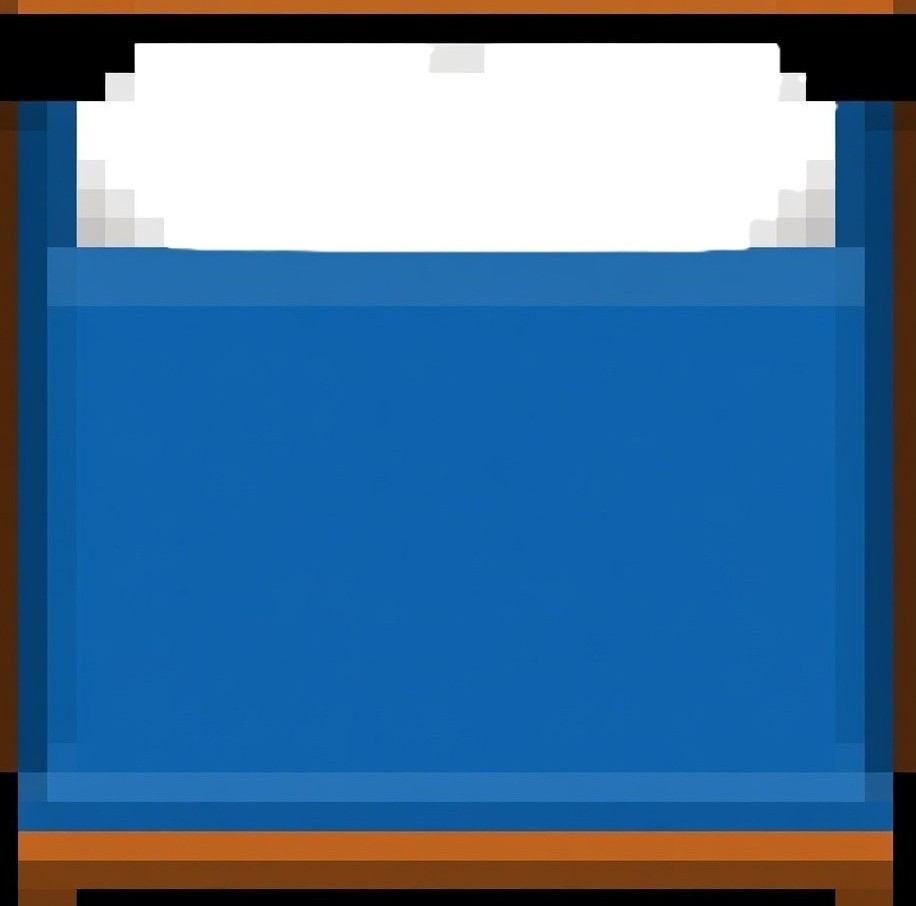
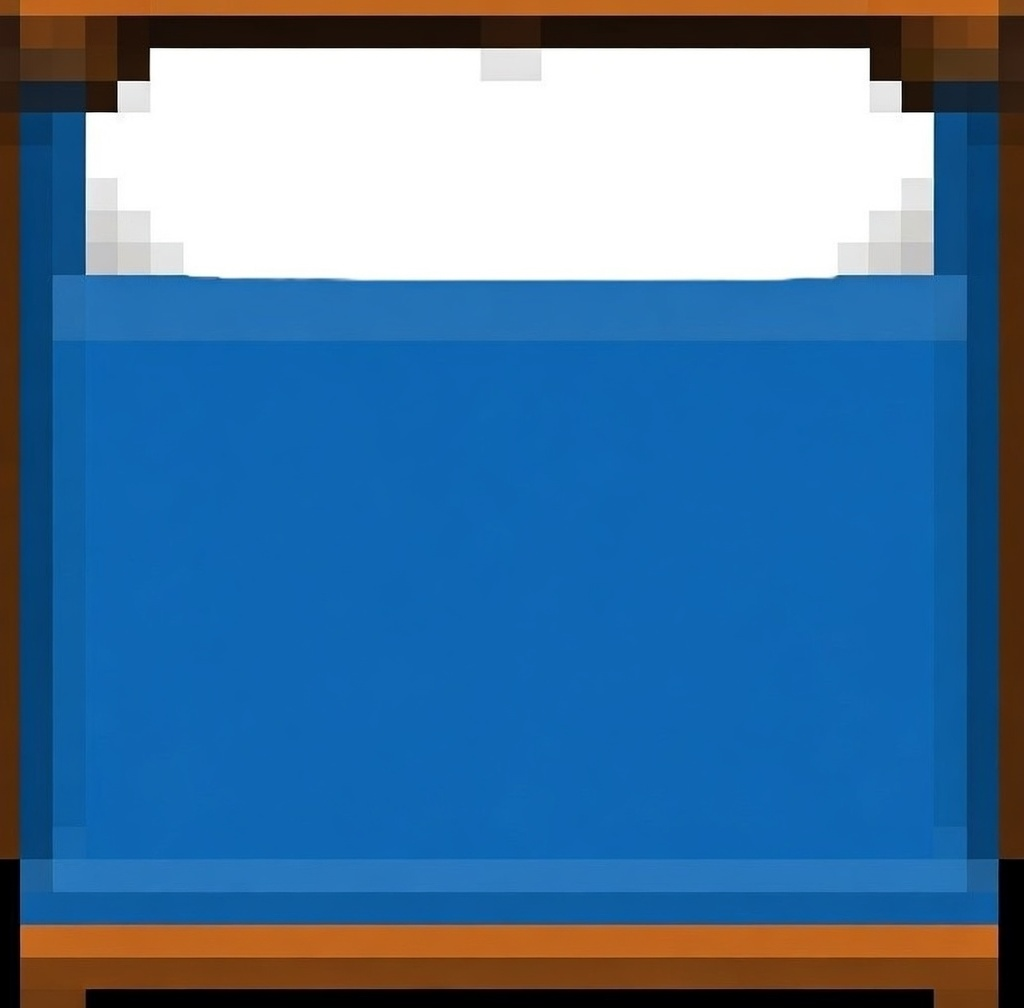
updatenha

Changed region(s): [[0.0, 0.0, 1.0, 0.1236]]

diff --git a/core/src/main/java/farm/com/screens/HomeScreen.java b/core/src/main/java/farm/com/screens/HomeScreen.java
@@ -9,20 +9,37 @@ import com.badlogic.gdx.math.Vector2;
 import com.badlogic.gdx.scenes.scene2d.Stage;
 import com.badlogic.gdx.utils.ScreenUtils;
 import farm.com.inhome.Bed;
+import farm.com.inhome.Chair;
+import farm.com.inhome.Heater;
+import farm.com.inhome.TV;
 
 public class HomeScreen implements Screen {
     Master game;
     Stage stage;
     Texture floor;
+    Texture picture;
+    Texture sofa;
+    Texture table;
     OrthographicCamera camera;
     Bed bed;
+    TV tv;
+    Chair chair;
+    farm.com.Character main;
+    Heater heater;
     public HomeScreen(Master game) {
         this.game = game;
         stage = new Stage();
         camera = new OrthographicCamera();
         camera.setToOrtho(false, Gdx.graphics.getWidth(),Gdx.graphics.getHeight());
         floor = new Texture("floor.jpg");
-        bed = new Bed(1159,308,stage);
+        picture = new Texture("pic.png");
+        sofa = new Texture("sofa.png");
+        table = new Texture("table.png");
+        bed = new Bed(1055,290,stage);
+        tv = new TV(797,650,stage);
+        heater = new Heater(1100,650,stage);
+        chair = new Chair(516,630,stage);
+        main = new farm.com.Character(1508,945,stage,game);
     }
     @Override
     public void show() {
@@ -35,7 +52,10 @@ public class HomeScreen implements Screen {
         camera.update();
         game.batch.setProjectionMatrix(camera.combined);
         game.batch.begin();
-        game.batch.draw(floor, 0,0, Gdx.graphics.getWidth(), Gdx.graphics.getHeight());
+        game.batch.draw(floor, 446,269, Gdx.graphics.getWidth()/2, Gdx.graphics.getHeight()/1.5f);
+        game.batch.draw(picture,984,779,100, 100);
+        game.batch.draw(sofa,737,250,Gdx.graphics.getWidth()/6.85f, Gdx.graphics.getHeight()/6);
+        game.batch.draw(table,576,490,Gdx.graphics.getWidth()/7, Gdx.graphics.getHeight()/2.5f);
         game.batch.end();
         stage.act(Gdx.graphics.getDeltaTime());
         stage.draw();

diff --git a/core/src/main/java/farm/com/inhome/Heater.java b/core/src/main/java/farm/com/inhome/Heater.java
@@ -1,0 +1,14 @@
+package farm.com.inhome;
+
+import com.badlogic.gdx.graphics.Texture;
+import com.badlogic.gdx.graphics.g2d.TextureRegion;
+import com.badlogic.gdx.scenes.scene2d.Stage;
+import farm.com.MyActor;
+
+public class Heater extends MyActor {
+    public Heater(float x, float y, Stage s) {
+        super(x, y, s);
+        textureRegion = new TextureRegion(new Texture("heater.png"));
+        setSize(textureRegion.getRegionWidth()/3.5f,textureRegion.getRegionHeight()/3.5f);
+    }
+}

diff --git a/core/src/main/java/farm/com/inhome/Chair.java b/core/src/main/java/farm/com/inhome/Chair.java
@@ -1,0 +1,14 @@
+package farm.com.inhome;
+
+import com.badlogic.gdx.graphics.Texture;
+import com.badlogic.gdx.graphics.g2d.TextureRegion;
+import com.badlogic.gdx.scenes.scene2d.Stage;
+import farm.com.MyActor;
+
+public class Chair extends MyActor {
+    public Chair(float x, float y, Stage s) {
+        super(x, y, s);
+        textureRegion = new TextureRegion(new Texture("chair.png"));
+        setSize(textureRegion.getRegionWidth()/3,textureRegion.getRegionHeight()/3);
+    }
+}

diff --git a/core/src/main/java/farm/com/inhome/TV.java b/core/src/main/java/farm/com/inhome/TV.java
@@ -1,0 +1,14 @@
+package farm.com.inhome;
+
+import com.badlogic.gdx.graphics.Texture;
+import com.badlogic.gdx.graphics.g2d.TextureRegion;
+import com.badlogic.gdx.scenes.scene2d.Stage;
+import farm.com.MyActor;
+
+public class TV extends MyActor {
+    public TV(float x, float y, Stage s) {
+        super(x, y, s);
+        textureRegion = new TextureRegion(new Texture("tv.png"));
+        setSize(textureRegion.getRegionWidth()/3.75f,textureRegion.getRegionHeight()/3.75f);
+    }
+}

diff --git a/core/src/main/java/farm/com/inhome/Bed.java b/core/src/main/java/farm/com/inhome/Bed.java
@@ -10,6 +10,6 @@ public class Bed extends MyActor {
     public Bed(float x, float y, Stage s) {
         super(x, y, s);
         textureRegion = new TextureRegion(new Texture("bed.jpg"));
-        setSize(textureRegion.getRegionWidth()/2,textureRegion.getRegionHeight()/2);
+        setSize(textureRegion.getRegionWidth()/4.95f,textureRegion.getRegionHeight()/4.5f);
     }
 }

diff --git a/core/src/main/java/farm/com/MyActor.java b/core/src/main/java/farm/com/MyActor.java
@@ -18,6 +18,9 @@ public class MyActor extends Actor {
         textureRegion = Utils.getRegion(0, 0, 1,1);
     }
 
+    public MyActor() {
+    }
+
     @Override
     public void draw(Batch batch, float parentAlpha) {
         super.draw(batch, parentAlpha);
